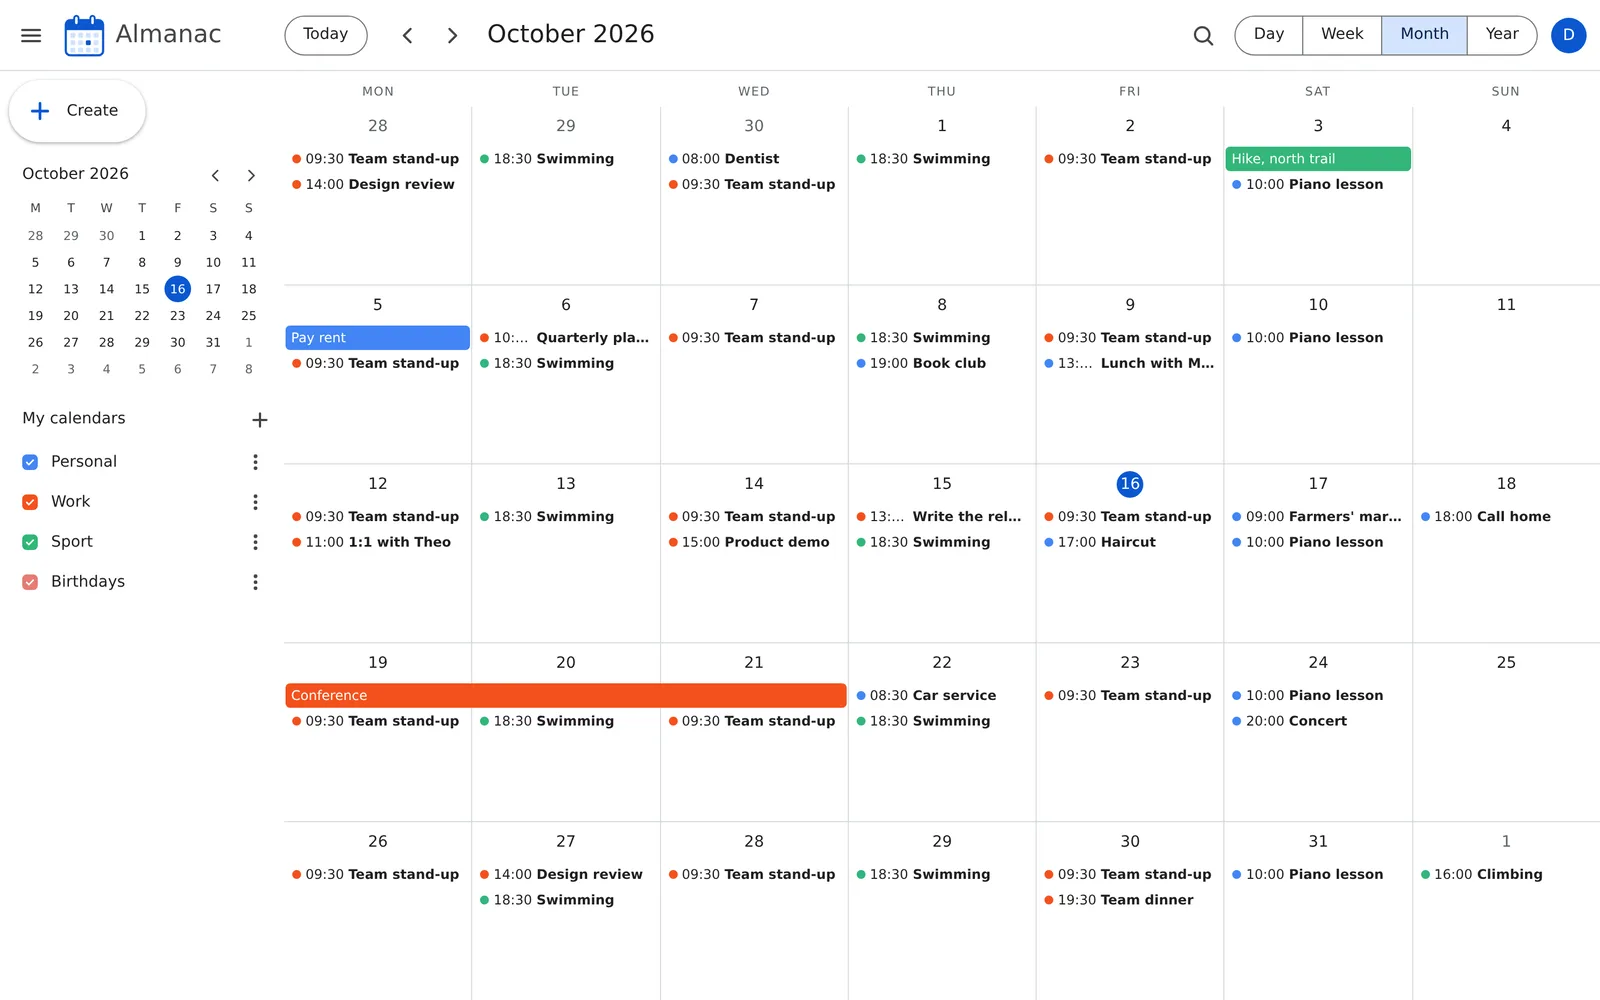
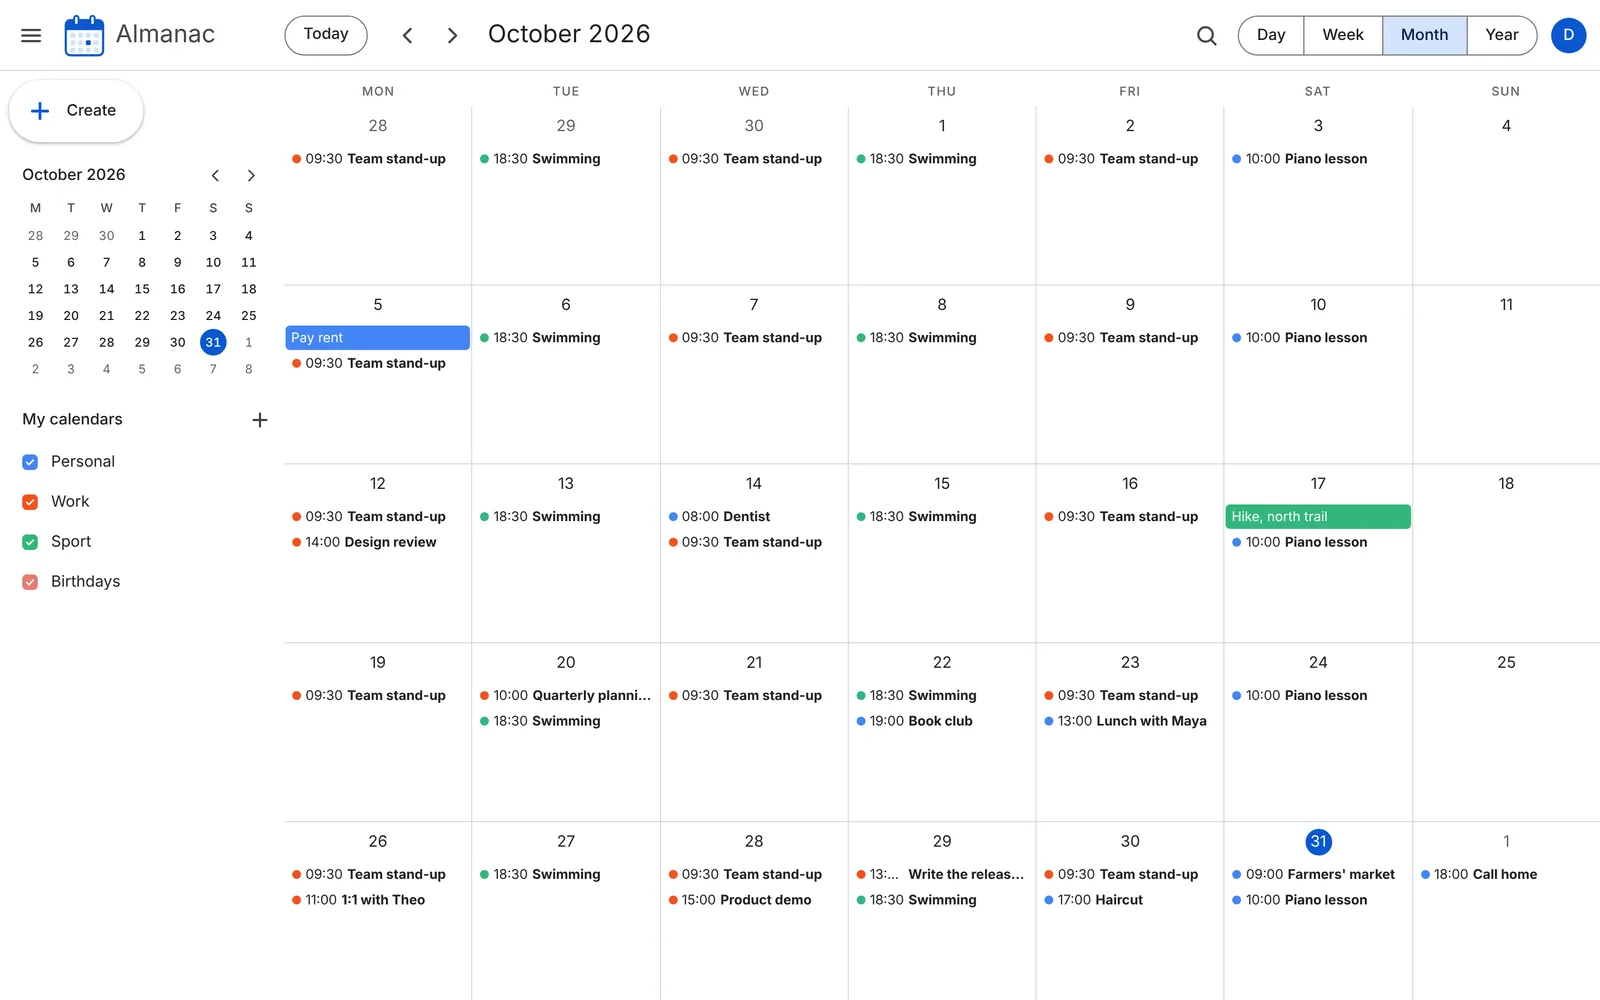
Retake the README images and name reminders in the README
The README said version 1 had no reminders; briefs 14-16 built them. It
now lists push reminders and the VAPID keys they need. All five images
were taken again from the demo seed: the event form shows its reminder
field, and the overlays are on Base UI since brief 12. shots.md records
the Playwright capture; corpus/log.md has the entry.

Claude-Session: https://claude.ai/code/session_01RnCo6HQvWHip2MdUz77hcT

diff --git a/README.md b/README.md
@@ -15,19 +15,20 @@ A self-hosted calendar that works like Google Calendar, for one person or a few 
 - Repeats events daily, every weekday, weekly on the days you pick, monthly or yearly. Changing one occurrence asks whether the change is for this event, this and following, or all events.
 - Keeps events in named, coloured calendars you can show or hide one at a time, and finds them by title, location or notes.
 - Shows every time in one display time zone you choose (Europe/Bucharest to start), whatever zone the device is in.
+- Reminds you before an event with a push notification on your phone or desktop browser, from 1 day to the start time, once you turn Notifications on in the account menu.
 - Fits a phone screen and can be added to its home screen. The keyboard shortcuts are Google's: `c`, `t`, `d` `w` `m` `y`, the arrow keys and `/`.
 
-Google Calendar does all of this. Almanac keeps the layout and the habits but runs on your own server, and each user sees only their own calendars. There is no sharing and no sign-up page. The only accounts are the ones you create with the seed or let in through Ward. Version 1 has no import, reminders, guests, attachments, dark mode or offline use, so you type every event in. Reminders are the first planned addition.
+Google Calendar does all of this. Almanac keeps the layout and the habits but runs on your own server, and each user sees only their own calendars. There is no sharing and no sign-up page. The only accounts are the ones you create with the seed or let in through Ward. It has no import, guests, attachments, dark mode or offline use, so you type every event in. Reminders need the server's VAPID keys, made with one command.
 
 ## Screenshots
 
 | The week, with a line at the current time | The year, with a dot on each day that has events |
 |---|---|
-| ![Week view for 12 to 18 October: stand-ups, a product demo, swimming on Tuesday and Thursday, and a red line marking the current time on Friday evening](docs/images/week.webp) | ![Year view: twelve mini-months for 2026, with blue dots under the days that have events and today circled](docs/images/year.webp) |
+| ![Week view for 26 October to 1 November: stand-ups, a product demo, swimming on Tuesday and Thursday, a farmers' market on Saturday, and a red line marking the current time on Saturday evening](docs/images/week.webp) | ![Year view: twelve mini-months for 2026, with blue dots under the days that have events and today circled](docs/images/year.webp) |
 
-| Editing a repeating event | On a phone |
+| Editing a repeating event, with a reminder | On a phone |
 |---|---|
-| <img src="docs/images/event-form.webp" width="420" alt="The Edit event form for Swimming: date and time fields, a repeat set to custom days with Tuesday and Thursday picked, 'Weekly on Tuesday, Thursday' spelled out, the Sport calendar and the location City pool"> | <img src="docs/images/phone-month.webp" width="220" alt="The month view on a phone: a compact top bar with a view menu, the same October grid with shortened event names, and a round Create button in the corner"> |
+| <img src="docs/images/event-form.webp" width="420" alt="The Edit event form for Swimming: date and time fields, a repeat set to custom days with Tuesday and Thursday picked, 'Weekly on Tuesday, Thursday' spelled out, the Sport calendar and the location City pool, with a reminder 30 minutes before"> | <img src="docs/images/phone-month.webp" width="220" alt="The month view on a phone: a compact top bar with a view menu, the same October grid with shortened event names, and a round Create button in the corner"> |
 
 The screens show a made-up `demo` account. How each image was made: [docs/images/shots.md](docs/images/shots.md).
 

diff --git a/docs/images/shots.md b/docs/images/shots.md
@@ -11,11 +11,11 @@ shows a different month with the same shape.
 
 | File | Shows | How to reach that state | Viewport | Taken |
 |---|---|---|---|---|
-| hero.webp | Month view with the four calendars | Fresh seed, sign in, `/almanac/` opens on the month | 1440×900 @2x, scaled to 1600 px wide | 2026-10-16 |
-| week.webp | Week view with the current-time line | Same, press `w` | 1440×900 @2x, scaled to 1600 px | 2026-10-16 |
-| year.webp | Year view with dots on days that have events | Same, press `y` | 1440×900 @2x, scaled to 1600 px | 2026-10-16 |
-| event-form.webp | The Edit event form for the Swimming series | Week view, click Tuesday's Swimming, then the pencil; cropped to the dialog | 1440×900 @2x, crop scaled to 900 px | 2026-10-16 |
-| phone-month.webp | Month view at phone size | `set device "iPhone 14"`, open `/almanac/month/<y>/<m>/<d>` | iPhone 14, 390×844 @3x, scaled to 780 px | 2026-10-16 |
+| hero.webp | Month view with the four calendars | Fresh seed, sign in, `/almanac/` opens on the month | 1440×900 @2x, scaled to 1600 px wide | 2026-10-31 |
+| week.webp | Week view with the current-time line | Same, press `w` | 1440×900 @2x, scaled to 1600 px | 2026-10-31 |
+| year.webp | Year view with dots on days that have events | Same, press `y` | 1440×900 @2x, scaled to 1600 px | 2026-10-31 |
+| event-form.webp | The Edit event form for the Swimming series, reminder set to 30 minutes before | Week view, click Tuesday's Swimming, then Edit event; pick "30 minutes before" in the bell field without saving; screenshot the dialog element | 1440×900 @2x, crop scaled to 900 px | 2026-10-31 |
+| phone-month.webp | Month view at phone size | `set device "iPhone 14"`, open `/almanac/month/<y>/<m>/<d>` | iPhone 14, 390×844 @3x, scaled to 780 px | 2026-10-31 |
 
 Take the week view in the evening if you want the current-time line inside
 the first screen; it scrolls to 08:00.
@@ -46,14 +46,13 @@ the first screen; it scrolls to 08:00.
 
 ## Capture method
 
-- Browser: `agent-browser --session almanac-readme`, `set viewport 1440 900 2`
-  for desktop, `set device "iPhone 14"` for the phone, then `screenshot` with
-  an absolute path. Sign in through the login page once; the session cookie
+- Browser: on 2026-10-31, Playwright with Chrome, a 1440×900 @2x context for
+  desktop and the `iPhone 14` device for the phone, time zone Europe/Bucharest;
+  earlier, `agent-browser --session almanac-readme` with the same sizes. Sign in through the login page once; the session cookie
   carries over.
 - Stills: PNG to WebP with
   `ffmpeg -i in.png -vf scale=1600:-1:flags=lanczos -c:v libwebp -quality 82 out.webp`
-  (780 for the phone). The form crop was
-  `-vf "crop=1440:1336:720:232,scale=900:-1:flags=lanczos"` on the 2880×1800
-  capture.
+  (780 for the phone). The form is a screenshot of the
+  `[role="dialog"]` element, scaled with `-vf scale=900:-1:flags=lanczos`.
 - Close the event form with Cancel or Escape after the capture, so nothing in
   the scratch data changes.

diff --git a/corpus/log.md b/corpus/log.md
@@ -244,3 +244,7 @@ the owner picks an address; production push needs the deploy to pass the keys
 first (`docs/owner-setup.md` step 8). Recorded in
 [decisions.md](wiki/decisions.md). The comment in `web/index.html` that said "no
 service worker" now says the worker is for Web Push only.
+
+## [2026-10-31] maintenance | README images retaken; the README names reminders
+
+A README refresh pass with the readme-docs standard. The README still said version 1 has no reminders and that they were the first planned addition, though briefs 14-16 built them on 2026-10-27. It now lists push reminders in What it does and says they need the server's VAPID keys. All five images were taken again with `docs/images/demo-seed.mjs` on a scratch `DATA_DIR`: the event form now shows its bell field, set to 30 minutes before for the picture and not saved, and the overlays sit on Base UI since brief 12. `shots.md` records the Playwright capture. Checked: `npm ci`, the seed, `npm run dev` on port 5177 and the demo seed.
